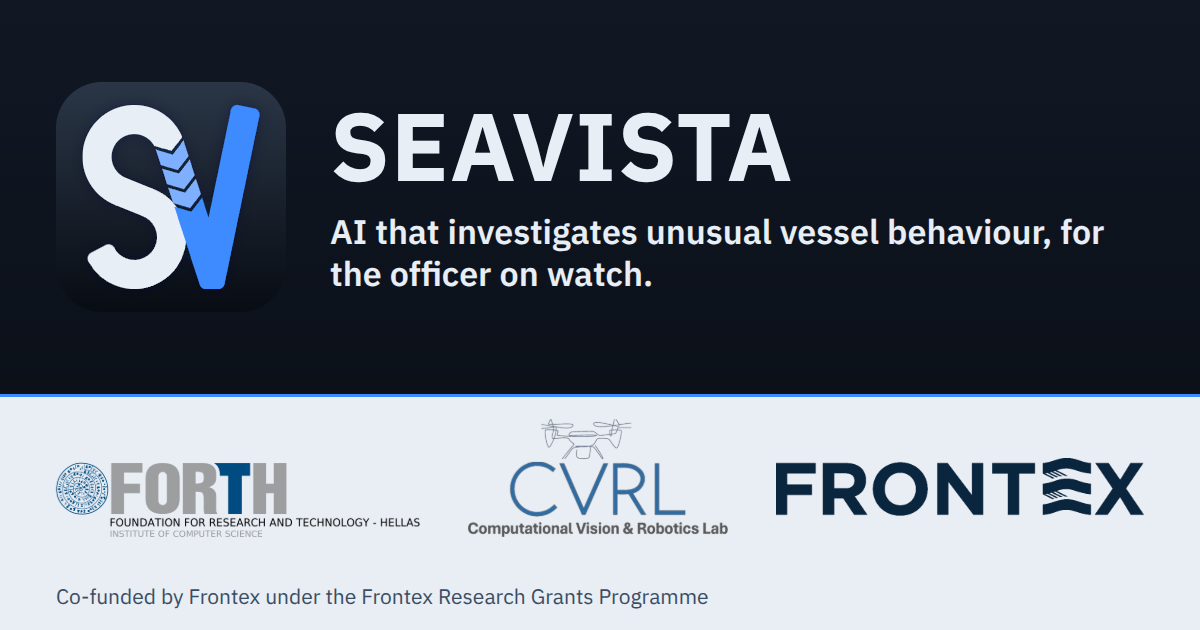
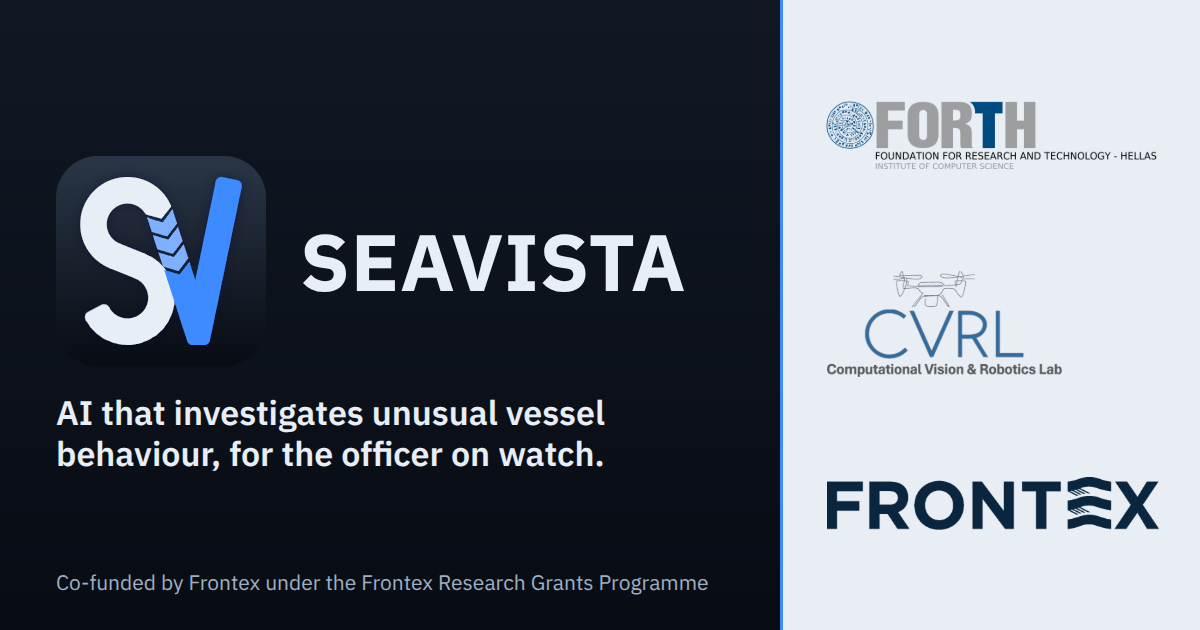
The preview card, the three marks in a column

diff --git a/index.html b/index.html
@@ -15,7 +15,7 @@
 <meta property="og:image" content="https://seavista-r-d.github.io/og-card.png">
 <meta property="og:image:width" content="1200">
 <meta property="og:image:height" content="630">
-<meta property="og:image:alt" content="The SEAVISTA mark beside the name and the line: AI that investigates unusual vessel behaviour, for the officer on watch. FORTH-ICS, CVRL and FRONTEX along the foot; co-funded by Frontex under the Frontex Research Grants Programme.">
+<meta property="og:image:alt" content="The SEAVISTA mark beside the name and the line: AI that investigates unusual vessel behaviour, for the officer on watch. FORTH-ICS, CVRL and FRONTEX in a column on the right; co-funded by Frontex under the Frontex Research Grants Programme.">
 <meta name="twitter:card" content="summary_large_image">
 <link rel="stylesheet" href="https://fonts.googleapis.com/css2?family=IBM+Plex+Mono:wght@400;500&family=IBM+Plex+Sans:wght@400;600;700&display=swap">
 <style>
